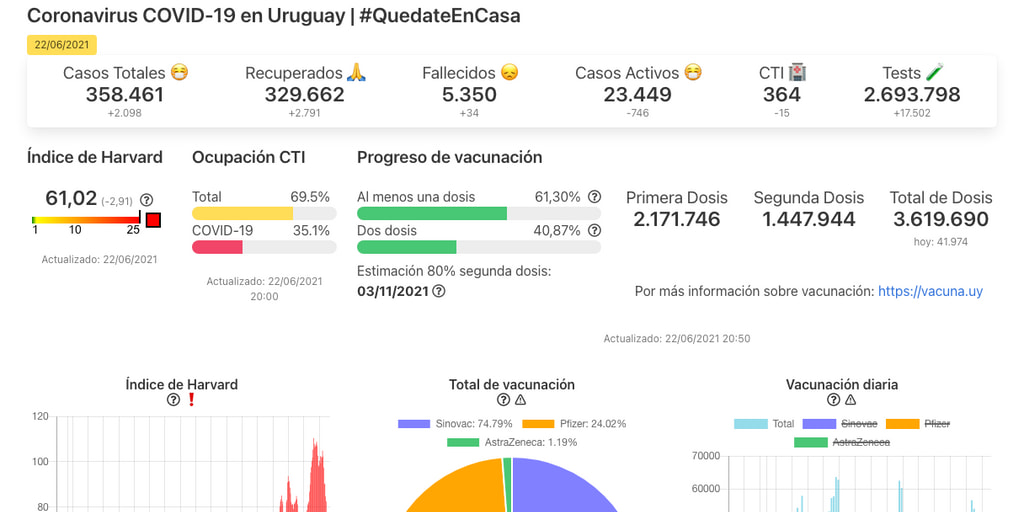
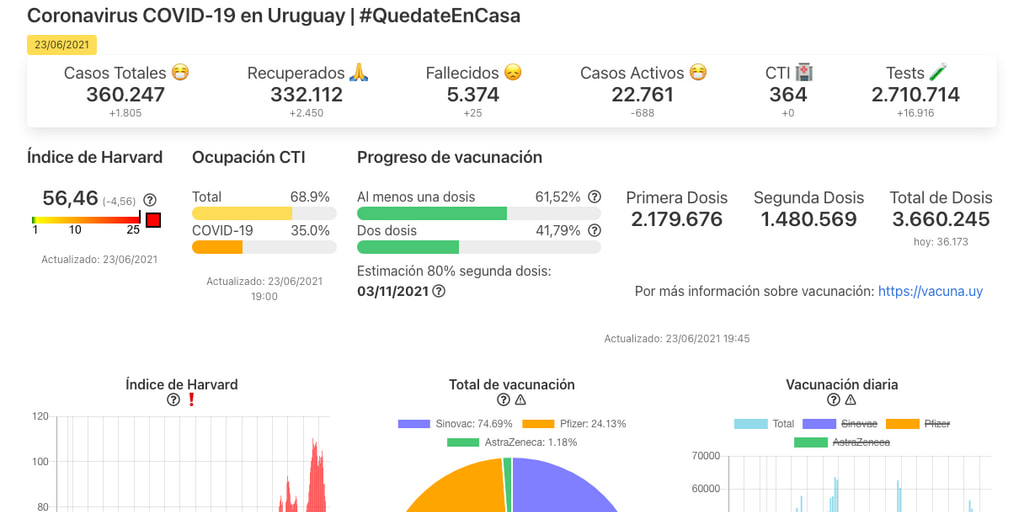
updated uruguay

diff --git a/test/test-data.js b/test/test-data.js
@@ -257,6 +257,10 @@ describe('Test data', function () {
                                 totalDeaths -= 2;
                             }
 
+                            if (date.getTime() == new Date("2021-06-23" + DATE_DEFAULT_TIME).getTime()) {
+                                totalDeaths -= 1;
+                            }
+
                             deathHistory.push({ date: date, deaths: totalDeaths });
                         }
                     }
